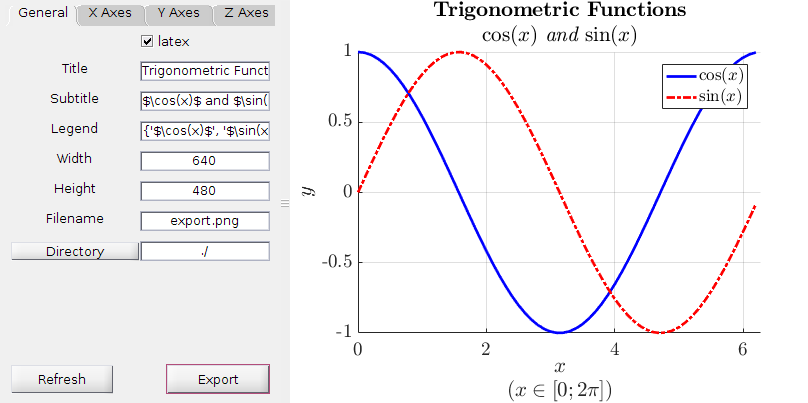
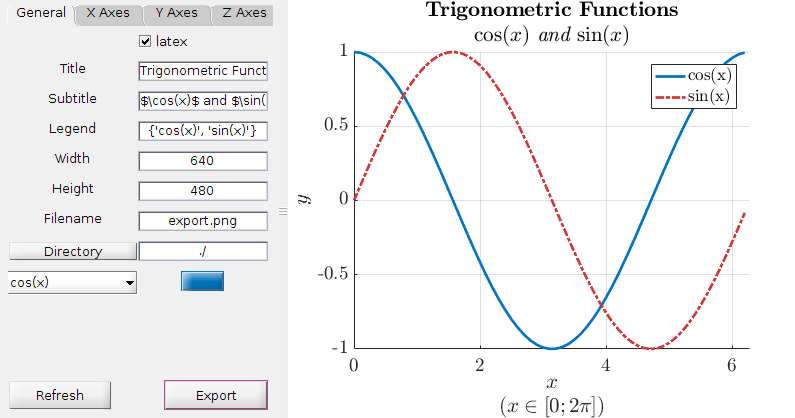
Color curve handle

diff --git a/FigExporter.m b/FigExporter.m
@@ -86,7 +86,7 @@ classdef FigExporter < handle
         hFig
         hAxes
         debug = 0;
-        
+        colorList
         % Figure settings
         Settings
         % Figure handles
@@ -206,6 +206,32 @@ classdef FigExporter < handle
                 obj.Settings.directory = folder_name; 
             end
         end
+        function color_callback (obj)
+           c = uisetcolor(); % Get user color choice (modal window)
+           v = numel(obj.colorList) - get(obj.Handles.popup, 'Value')+1;
+           if numel(c) == 3
+               % Set the new color for the current figure
+               lineCounter = 1;
+               for iLine = 1:numel(obj.hAxes.Children)
+                   if isa(obj.hAxes.Children(iLine), ...
+                          'matlab.graphics.chart.primitive.Line')
+                       if lineCounter == v
+                           set(obj.hAxes.Children(iLine), 'Color', ...
+                                             c);
+                           obj.colorList{get(obj.Handles.popup, 'Value')} = c;
+                           set(obj.Handles.Color, 'BackgroundColor', ...
+                                             c);
+                           break;
+                       end
+                       lineCounter = lineCounter + 1;
+                   end
+               end
+           end
+        end
+        function popup_callback (obj)
+            v = get(obj.Handles.popup, 'Value');
+            set(obj.Handles.Color, 'BackgroundColor', obj.colorList{v});
+        end
         function update_settings (obj)
             obj.Settings.title =  get(obj.Handles.Title, 'String');
             obj.Settings.subtitle =  get(obj.Handles.Subtitle, 'String');
@@ -309,9 +335,43 @@ classdef FigExporter < handle
 
             if ~isempty(obj.Settings.legendString)
                 legend(obj.Settings.legendString, 'interpreter', obj.Settings.interpreter);
+            else
+                legend('hide');
             end
 
-           
+            % Now copy the lines to the popup to change the
+            % color
+            obj.colorList = {};
+            strPopup = {};
+            for iLine = 1:numel(obj.hAxes.Children)
+                if isa(obj.hAxes.Children(iLine), ...
+                       'matlab.graphics.chart.primitive.Line')
+                    if iLine <= numel(obj.Settings.legendString)
+                        strPopup{numel(strPopup) + 1} = ...
+                            obj.Settings.legendString{iLine};
+                    else
+                        strPopup{numel(strPopup) + 1} = ['Curve #', ...
+                                            num2str(iLine)];
+                    end
+                end
+            end
+            obj.colorList = cell(numel(strPopup), 1);
+            lineCounter = numel(strPopup);
+            for iLine = 1:numel(obj.hAxes.Children)
+                if isa(obj.hAxes.Children(iLine), ...
+                       'matlab.graphics.chart.primitive.Line')
+                    obj.colorList{lineCounter} = ...
+                        get(obj.hAxes.Children(iLine), 'Color');
+
+                    lineCounter = lineCounter -1;
+
+                end
+            end
+                
+            set(obj.Handles.popup, 'String', strPopup, 'Value', ...
+                              1);
+            set(obj.Handles.Color, 'BackgroundColor', ...
+                              obj.colorList{1});
         end 
         
     end
@@ -402,15 +462,32 @@ classdef FigExporter < handle
                 obj.Handles.Filename = uicontrol('String', obj.Settings.filename,...
                                                  'Style', 'edit', ...
                                                  'Parent', hbb);
+                % Directory
                 hbb = uix.HBox('Parent', vBoxTab, 'Padding', 5);
                 uicontrol('String', 'Directory',...
                           'Parent', hbb, 'Callback', @(src, ev) obj.get_directory());
                 obj.Handles.Directory = uicontrol('String', obj.Settings.directory,...
                                                   'Style', 'edit', ...
                                                   'Parent', hbb);
+                % Color
+                hbb = uix.HBox('Parent', vBoxTab, 'Padding', 5);
+                obj.Handles.popup = uicontrol('String', 'Curve', 'Style', ...
+                                              'popupmenu', 'Parent', ...
+                                              hbb, 'Callback', @(src, ...
+                                                                 ev) ...
+                                              obj.popup_callback);
+                uix.Empty('Parent', hbb);
+                
+                obj.Handles.Color = uicontrol('String', '',...
+                                              'Parent', hbb, ...
+                                              'Callback', @(src, ev) ...
+                                              obj.color_callback);
+                uix.Empty('Parent', hbb);
+                set(hbb, 'Widths', [-3, -1, -1, -1]);
+
                 % Margin
                 uix.Empty('Parent', vBoxTab);
-                set(vBoxTab, 'Heights', [30 30 30 30 30 30 30 30 -1]);
+                set(vBoxTab, 'Heights', [30 30 30 30 30 30 30 30 30 -1]);
 
 
                 %% Tab 2 - X Axes
@@ -532,10 +609,9 @@ classdef FigExporter < handle
                 set(mainVBox, 'Heights', [-1, 40])
 
                 % Refresh the figure
-
                 copyobj(allchild(axesExported),obj.hAxes);
-                obj.refresh;
 
+                obj.refresh;
             else
                 error(['You need to provide the handle to the axes you want ' ...
                        'to export.']);

diff --git a/testme.m b/testme.m
@@ -7,11 +7,11 @@ x  = 0: .1 : 2*pi;
 y1 = cos(x);
 y2 = sin(x);
 % Plot y1 vs. x (blue, solid) and y2 vs. x (red, dashed)
-figure
-plot(x, y1, 'b', x, y2, 'r-.', 'LineWidth', 2)
+figure;
+plot(x, y1, 'b', x, y2, 'r-.', 'LineWidth', 2);
 
 % Turn on the grid
 grid on
-axis([0 2*pi -1.5 1.5])
-ax = gca;
-ff = FigExporter(ax);
+axis([0 2*pi -1.5 1.5]);
+
+FigExporter(gca);
